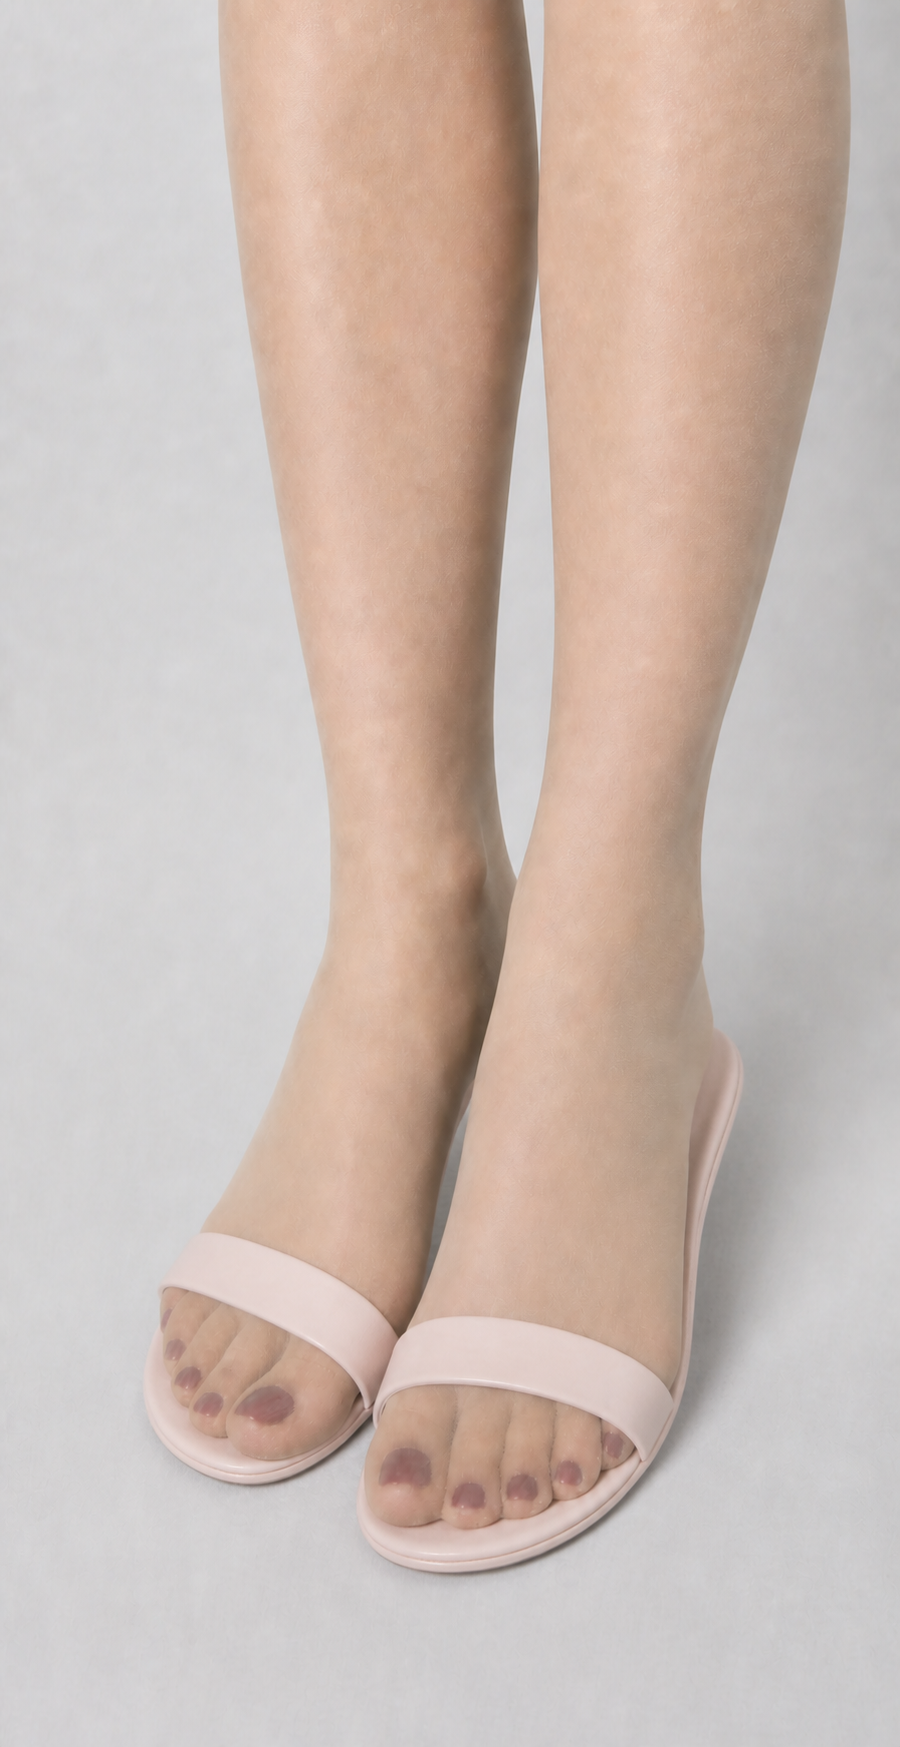
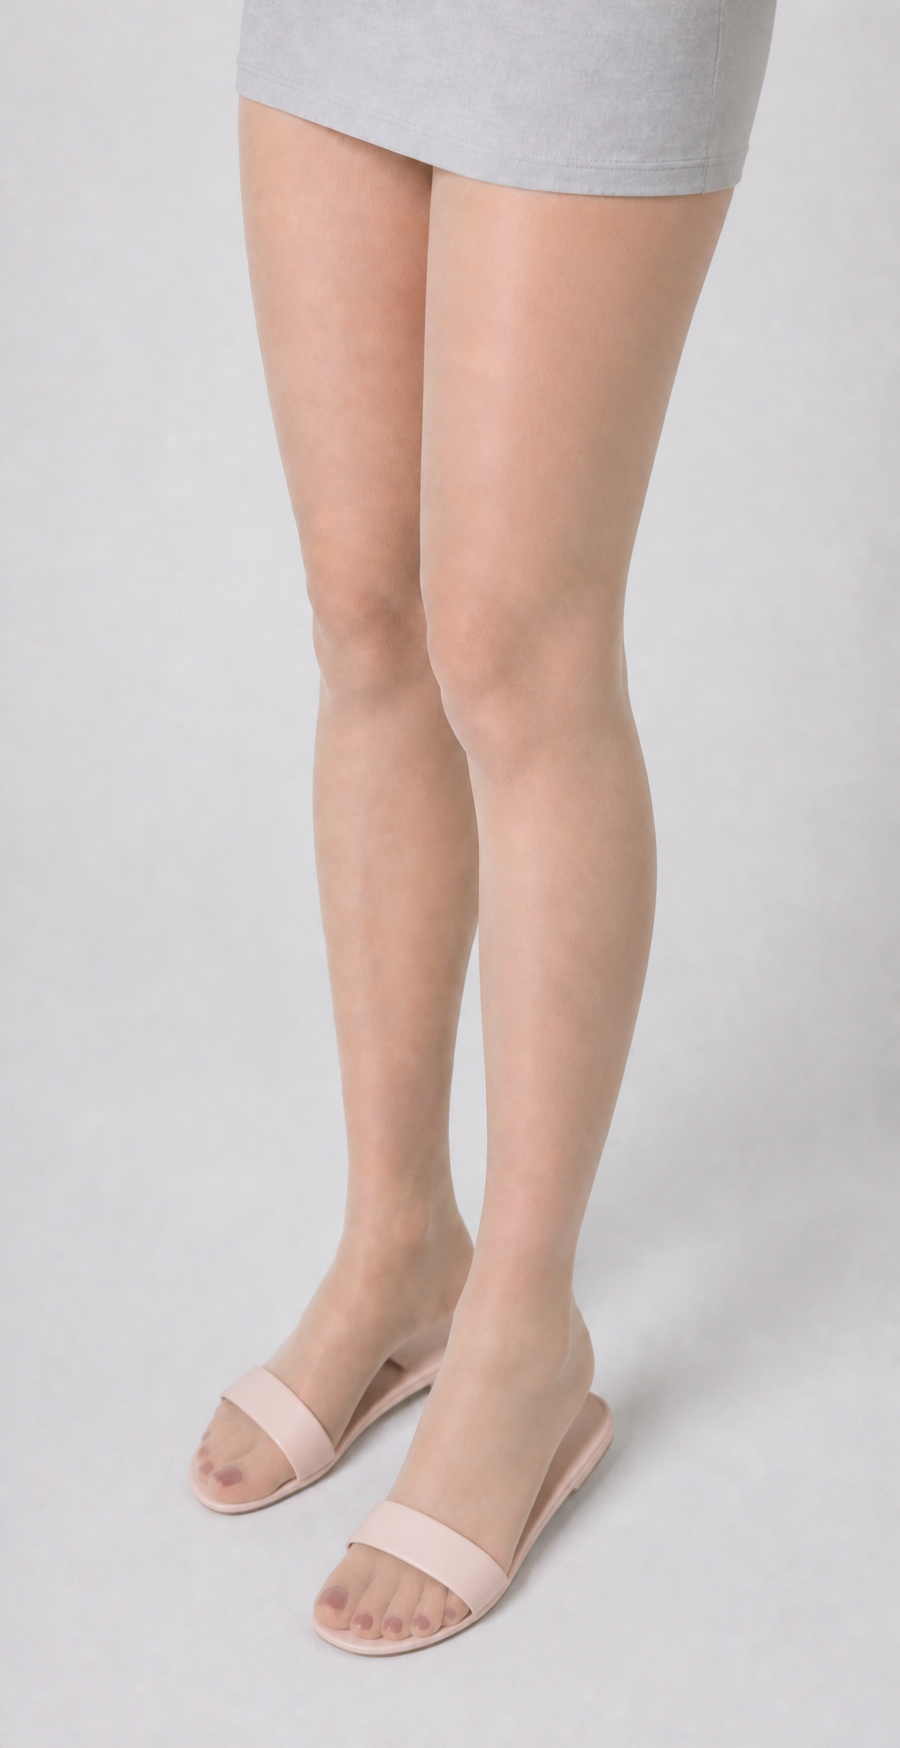
更新丝袜视觉模板，新增多个鞋型图像资产，修订资产计划以反映最新状态；移除不合格的鞋型图像。

diff --git a/assets/female-lead/hosiery/asset-plan.md b/assets/female-lead/hosiery/asset-plan.md
@@ -133,7 +133,11 @@
   - 输入参考：`visuals/hosiery-nude-30d-velvet-matte-plain-none-front-standing-neutral-toe-closeup-v01.png`（最终编辑目标，唯一锁定膝下比例、正面中性站姿、肉色 30D 材质、十趾结构、光照和背景）；由 `visuals/shoe-narrow-band-flat-home-slide-multiview-v01.png` 裁出的低位正面单视角临时图（只锁定浅象牙粉窄带、露趾口和薄底结构，未作为正式资产保存）。
   - 生成与 QA：2026-09-01；原生输出 901 × 1746 PNG；A–F 通过，G 的结构可读性通过但长边低于 2048 px 建议值；双脚完整居中入鞋并平整承重，十趾由连续袜面覆盖，趾间为柔和浅弧，十枚隔袜酒红甲油均清楚可辨且足底无甲油色块；窄带位于跖骨区域并留出更多脚背与趾根袜面，正面鞋底保持薄底零跟。
   - 尝试记录：`P1` 使用全腿正面模板时在输出阶段被安全系统误判拦截，未产生图片；`P2` 改用已批准的膝下正面结构特写作为编辑目标后首轮通过。
-- [ ] `FW-S02-T`｜`hosiery-nude-30d-velvet-matte-plain-narrow-band-flat-home-slide-top-three-quarter-standing-neutral-v01.png`｜高位三分之四。
+- [x] `FW-S02-T`｜`visuals/hosiery-nude-30d-velvet-matte-plain-narrow-band-flat-home-slide-top-three-quarter-standing-neutral-v01.png`｜高位三分之四。
+  - 提示词版本：`FW-S02-T-P1`；内置 ImageGen 精确编辑；以已批准 BASE-L02 为编辑目标，只为双脚穿上 S02 浅象牙粉窄面薄底零跟居家拖鞋；完整逐字加入 closed-foot toe lock、deep-red toenail visibility lock、plantar-view anatomy lock，并明确中性站立无褶皱、恰好五趾、窄带覆盖深度和鞋底全长水平。
+  - 输入参考：`visuals/hosiery-nude-30d-velvet-matte-plain-none-top-three-quarter-standing-neutral-v01.png`（编辑目标，唯一锁定女主自然腿脚比例、高位三分之四中性站姿、肉色 30D 材质、前后脚轻微错位、光照和背景）；由 `visuals/shoe-narrow-band-flat-home-slide-multiview-v01.png` 裁出的高位三分之四单视角临时图（只锁定浅象牙粉窄带、开放前后结构和 5–6 mm 薄底零跟，未作为正式资产保存）。
+  - 生成与 QA：2026-09-02；原生输出 900 × 1748 PNG；A–F 通过，G 的结构可读性通过但长边低于 2048 px 建议值；前脚五枚隔袜酒红甲油完整可辨，后脚受自然三分之四透视但所有可见背侧甲板均正确；双脚完整居中入鞋，脚踝—脚背—趾端肉色 30D 微织纹连续，趾间保持柔和浅弧，袜头无横线；S02 单条窄带位于跖骨区域，脚背开放区充足，鞋底全长保持薄底零跟。
+  - 尝试记录：`P1` 首轮通过，无失败候选。
 - [x] `FW-S02-L`｜`visuals/hosiery-nude-30d-velvet-matte-plain-narrow-band-flat-home-slide-lateral-side-standing-neutral-v01.png`｜外侧站立。
   - 提示词版本：`FW-S02-L-P3`；内置 ImageGen 精确编辑；放弃从失败的穿鞋图继续修补，改以已批准 BASE-C03 五趾无鞋结构图为编辑目标，只增加 S02 浅象牙粉窄带拖鞋；完整逐字加入 closed-foot toe lock、deep-red toenail visibility lock、plantar-view anatomy lock，并额外硬锁恰好五趾、自然趾序、均匀细密微织纹和中性站立无褶皱。
   - 输入参考：`visuals/hosiery-nude-30d-velvet-matte-plain-none-lateral-side-standing-neutral-foot-closeup-v01.png`（最终编辑目标，唯一锁定单脚五趾解剖、外侧三分之四比例、肉色 30D 材质、光照和背景）；由 `visuals/shoe-narrow-band-flat-home-slide-multiview-v01.png` 裁出的严格外侧单视角临时图（只锁定浅象牙粉窄带、开放后跟和薄底结构，未作为正式资产保存）。
@@ -150,15 +154,24 @@
   - 生成与 QA：2026-09-01；原生输出 1024 × 1536 PNG；A–F 通过，G 的结构可读性通过但长边低于 2048 px 建议值；全蹲姿势、自然比例、脚跟和鞋底接地、28–35 mm 窄带保持；前踝仅余少量极细浅低对比纹，膝窝压缩极弱，膝前与跟腱—后踝平顺，无 150D 般体积感；五趾、连续袜面与隔袜甲油通过。
   - 尝试记录：原 `P1`、`P2` 记录保留；用户指出 P2 褶皱偏厚后，P2 已移入 `rejected/`，`P3` 定向减量通过。
 
-### S04｜踝带露趾平底凉鞋
+### S04｜一字带踝带 15 mm 微方跟露趾凉鞋
 
-低饱和裸粉色，前掌横带、细踝带、露趾、平底。用于锁定鞋带压迫、脚背连续性和踝带上下丝袜材质一致性。
+低饱和裸粉色，方圆头、单条前掌一字带、细踝带、两侧斜向后跟支撑带、露趾、开放后跟；前掌底约 4–5 mm，鞋床腰部收窄并自然上扬，后掌为独立 15 mm 微方跟。用于锁定鞋带压迫、脚背连续性、踝带上下丝袜材质一致性及低跟站姿受力；禁止回退为全长水平直板鞋底或居家拖鞋轮廓。
 
-- [ ] `FW-S04-M`｜`shoe-ankle-strap-flat-sandal-multiview-v01.png`｜无脚产品多视角鞋型母版。
-- [ ] `FW-S04-F`｜`hosiery-nude-30d-velvet-matte-plain-ankle-strap-flat-sandal-front-standing-neutral-v01.png`｜正面站立。
-- [ ] `FW-S04-T`｜`hosiery-nude-30d-velvet-matte-plain-ankle-strap-flat-sandal-top-three-quarter-standing-neutral-v01.png`｜高位三分之四。
-- [ ] `FW-S04-L`｜`hosiery-nude-30d-velvet-matte-plain-ankle-strap-flat-sandal-lateral-side-standing-neutral-v01.png`｜外侧站立。
-- [ ] `FW-S04-Q`｜`hosiery-nude-30d-velvet-matte-plain-ankle-strap-flat-sandal-lateral-side-half-squat-v01.png`｜侧面半蹲。
+- [x] `FW-S04-M`｜`visuals/shoe-single-band-ankle-strap-15mm-low-block-heel-sandal-multiview-v01.png`｜无脚产品多视角鞋型母版。
+  - 提示词版本：`FW-S04-M-P2`；内置 ImageGen 精确编辑；以旧 P1 四格图为编辑目标，保留四视角布局与摄影语言，统一重建为低饱和裸粉色、方圆头、单条前掌一字带、细踝带、两侧斜向后跟支撑、收腰鞋床和独立 15 mm 微方跟；本项无脚、无女主、无丝袜，因此不加入脚趾硬锁。
+  - 输入参考：原 `visuals/shoe-ankle-strap-flat-sandal-multiview-v01.png` P1（仅锁定 2 × 2 布局、高位三分之四、严格外侧、低位正面和大底四视角，以及中性浅灰背景与柔和布光；旧直板平底鞋型明确不具约束力，现已移入 `rejected/`）。
+  - 生成与 QA：2026-09-02；原生输出 1402 × 1122 PNG；鞋型 QA 通过但长边低于 2048 px 建议值；四格保持同一只右脚凉鞋，方圆头、前掌一字带、细踝带、斜向后跟支撑、外侧小扣具、收窄腰线、4–5 mm 前掌底和独立 15 mm 微方跟一致；外侧视角可清楚辨认前掌—足弓—后跟层次，大底视角显示独立前掌纹路与后跟落地片，无脚、人物、丝袜、品牌或文字。
+  - 尝试记录：`P1` 虽通过原平底规格，但用户指出全长水平直板鞋底过于接近拖鞋，现按鞋型风格不匹配移入 `rejected/shoe-ankle-strap-flat-sandal-multiview-slide-like-rejected-v01.png`，严禁作为正向参考；`P2` 按用户确认的新样式首轮通过。
+  - 使用边界：多格总览只供人工检查鞋型一致性；后续穿着适配生成前，应裁出与目标机位对应的单一视角，不直接提交整张多格图作为正向参考。
+- [x] `FW-S04-F`｜`visuals/hosiery-nude-30d-velvet-matte-plain-single-band-ankle-strap-15mm-low-block-heel-sandal-front-standing-neutral-v01.png`｜正面站立。
+  - 提示词版本：`FW-S04-F-P1`；内置 ImageGen 精确编辑；以已批准 BASE-C01 为编辑目标，只为双脚穿上新版 S04 一字带踝带 15 mm 微方跟凉鞋，并允许脚踝做适配低跟所需的极轻微跖屈；完整逐字加入 closed-foot toe lock、deep-red toenail visibility lock 与 plantar-view anatomy lock。
+  - 输入参考：`visuals/hosiery-nude-30d-velvet-matte-plain-none-front-standing-neutral-toe-closeup-v01.png`（编辑目标，唯一锁定膝下比例、正面中性站姿、双脚十趾解剖、肉色 30D 材质、光照和背景）；由 `visuals/shoe-single-band-ankle-strap-15mm-low-block-heel-sandal-multiview-v01.png` 裁出的低位正面单视角临时图（只锁定方圆头、一字带、细踝带与两侧斜向支撑，未作为正式资产保存）。
+  - 生成与 QA：2026-09-02；原生输出 900 × 1748 PNG；A–F 通过，G 的结构可读性通过但长边低于 2048 px 建议值；双脚各五趾且十枚隔袜酒红甲油清楚可辨，趾间为连续柔和浅弧，袜头无横线；30D 微织纹从小腿经踝带上下、脚背到趾端保持连续，踝带未形成材质分界或松垮褶皱；双脚居中入鞋，方圆头、一字带、踝带、斜向支撑与低跟站姿成立。
+  - 尝试记录：`P1` 首轮通过，无失败候选。
+- [ ] `FW-S04-T`｜`hosiery-nude-30d-velvet-matte-plain-single-band-ankle-strap-15mm-low-block-heel-sandal-top-three-quarter-standing-neutral-v01.png`｜高位三分之四。
+- [ ] `FW-S04-L`｜`hosiery-nude-30d-velvet-matte-plain-single-band-ankle-strap-15mm-low-block-heel-sandal-lateral-side-standing-neutral-v01.png`｜外侧站立。
+- [ ] `FW-S04-Q`｜`hosiery-nude-30d-velvet-matte-plain-single-band-ankle-strap-15mm-low-block-heel-sandal-lateral-side-half-squat-v01.png`｜侧面半蹲。
 
 P0 完成条件：现保留的 17 项全部通过后，才开始 P1。若同一鞋型连续三次无法通过袜头结构验收，应先修正参考和构图，不继续批量生成其他角度。
 
@@ -247,7 +260,7 @@ P0–P2 的站立结构通过后，再补以下鞋型专属姿势：
 
 建议首批兼容性测试：
 
-- [!] `FW-MAT-01`｜`hosiery-white-15d-pearl-plain-ankle-strap-flat-sandal-top-three-quarter-standing-neutral-v01.png`｜S04 踝带平底凉鞋 × 白色 15D 珠光；等待材质中性硬锁。
+- [!] `FW-MAT-01`｜`hosiery-white-15d-pearl-plain-single-band-ankle-strap-15mm-low-block-heel-sandal-top-three-quarter-standing-neutral-v01.png`｜S04 一字带踝带 15 mm 微方跟凉鞋 × 白色 15D 珠光；等待材质中性硬锁。
 - [!] `FW-MAT-02`｜`hosiery-gray-30d-satin-plain-open-toe-flat-mule-top-three-quarter-standing-neutral-v01.png`｜S05 露趾平底穆勒鞋 × 灰色 30D 缎光；等待材质中性硬锁。
 - [!] `FW-MAT-03`｜`hosiery-nude-15d-oil-gloss-plain-single-band-high-heel-sandal-top-three-quarter-standing-neutral-v01.png`｜S07 一字带高跟凉鞋 × 肉色 15D 油亮；等待材质中性硬锁。
 - [!] `FW-MAT-04`｜`hosiery-black-50d-velvet-matte-plain-strappy-high-heel-sandal-top-three-quarter-standing-neutral-v01.png`｜S08 多细带高跟凉鞋 × 黑色 50D 天鹅绒哑光；等待材质与甲油可见性规则。

diff --git a/assets/female-lead/hosiery/README.md b/assets/female-lead/hosiery/README.md
@@ -4,7 +4,7 @@
 
 ## 当前状态
 
-当前已有 20 张通过确认或 QA 的视觉模板。目录保持精简，规则由四个入口文件管理，正式图片集中放入 `visuals/`：
+当前已有 23 张通过确认或 QA 的视觉模板。目录保持精简，规则由四个入口文件管理，正式图片集中放入 `visuals/`：
 
 - `README.md`：本入口、属性体系、参考图使用方法和登记规则。
 - `asset-plan.md`：后续视觉模板与鞋履适配生成清单。
@@ -112,8 +112,11 @@ hosiery-{color}-{denier}d-{material}-{pattern}-{shoe-or-none}-{view}-{pose}-vNN.
 | `visuals/hosiery-nude-30d-velvet-matte-plain-wide-band-flat-home-slide-lateral-side-deep-squat-v01.png` | `approved`，2026-09-01，用户纠正后 QA 通过 | 肉色 30D 天鹅绒哑光完整包脚连裤袜；浅粉色单条宽鞋面、5–6 mm 薄底零跟居家拖鞋 | 严格侧视全蹲，下肢技术构图，近侧单腿完整可见、远侧腿自然完全遮挡 | 内置 ImageGen 精确编辑；`FW-S01-D-P3`；以原 P2 为唯一编辑目标，只把前踝褶皱压缩为少量极细浅低对比纹，并弱化膝窝压缩线；完整加入三段脚趾/足底硬锁 | 检查全蹲落跟受力、30D 轻量前踝压缩纹、膝前与跟腱—后踝平顺张力，以及鞋脚连续性 | 原生 1024 × 1536，低于 2048 px 长边建议；仅承担下肢全蹲受力与轻量褶皱参考；褶皱量不超过旧半蹲模板且无近似 150D 的厚重体积；旧褶皱偏厚版本已移入 `rejected/` |
 | `visuals/shoe-narrow-band-flat-home-slide-multiview-v01.png` | `approved`，2026-09-01，鞋型 QA 通过 | 浅象牙粉色、单条窄鞋面、露趾、后跟开放、5–6 mm 柔性薄底、零跟 | 同一只右脚拖鞋的高位三分之四、严格外侧、低位正面和大底四视角 | 内置 ImageGen 精确编辑；`FW-S02-M-P1`；以 FW-S01-M 为编辑目标，只收窄鞋面覆盖深度并调整为浅象牙粉色；本项无脚、无女主、无丝袜，不加入脚趾硬锁 | 人工核对窄鞋面覆盖、较大脚背开放区、前后开放结构、全长水平薄底、鞋口和大底轮廓；为 S02 穿着适配图定义鞋型 | 原生 1402 × 1122，低于 2048 px 长边建议；为多格总览，只供人工检查，提交生成模型时应裁出与目标机位相同的单一视角，不直接以整张多格图作为正向参考 |
 | `visuals/hosiery-nude-30d-velvet-matte-plain-narrow-band-flat-home-slide-front-standing-neutral-v01.png` | `approved`，2026-09-01，QA 通过 | 肉色 30D 天鹅绒哑光完整包脚连裤袜；浅象牙粉单条窄鞋面、5–6 mm 薄底零跟居家拖鞋 | 膝下至双脚正面中性站立结构特写 | 内置 ImageGen 精确编辑；`FW-S02-F-P2`；以已批准 BASE-C01 为编辑目标，裁取 FW-S02-M 低位正面单视角只约束鞋型；完整加入三段脚趾/足底硬锁与中性站立褶皱规则 | 检查窄带减少遮挡后十趾连续袜面、十枚隔袜甲油、脚背开放区、双脚入鞋位置及正面薄底边缘 | 原生 901 × 1746，低于 2048 px 长边建议；无脸部且为膝下结构特写，不承担身份或全腿比例参考；正面机位不替代高位三分之四、外侧或足底模板 |
+| `visuals/hosiery-nude-30d-velvet-matte-plain-narrow-band-flat-home-slide-top-three-quarter-standing-neutral-v01.png` | `approved`，2026-09-02，QA 通过 | 肉色 30D 天鹅绒哑光完整包脚连裤袜；浅象牙粉单条窄鞋面、5–6 mm 薄底零跟居家拖鞋 | 下半身高位三分之四中性站立，双脚前后轻微错位 | 内置 ImageGen 精确编辑；`FW-S02-T-P1`；以已批准 BASE-L02 为编辑目标，裁取 FW-S02-M 高位三分之四单视角只约束窄带鞋型；完整加入三段脚趾/足底硬锁、窄带覆盖深度与中性站立褶皱规则 | 检查高机位下窄带减少遮挡后的脚踝—脚背—趾端连续性、趾间浅弧、隔袜甲油、双脚入鞋位置及全长薄底零跟结构 | 原生 900 × 1748，低于 2048 px 长边建议；无脸部，不承担身份参考；后脚部分背侧甲板受三分之四透视自然遮挡，不替代正面十趾、外侧或足底模板 |
 | `visuals/hosiery-nude-30d-velvet-matte-plain-narrow-band-flat-home-slide-lateral-side-standing-neutral-v01.png` | `approved`，2026-09-01，用户纠正后 QA 通过 | 肉色 30D 天鹅绒哑光完整包脚连裤袜；浅象牙粉单条窄鞋面、5–6 mm 薄底零跟居家拖鞋 | 单脚外侧三分之四中性站立结构特写 | 内置 ImageGen 精确编辑；`FW-S02-L-P3`；改以已批准 BASE-C03 五趾无鞋结构图为编辑目标，裁取 FW-S02-M 严格外侧单视角只约束窄带鞋型；完整加入三段脚趾/足底硬锁、恰好五趾和袜面防涂抹约束 | 检查恰好五趾、均匀细密袜面、窄带下小脚趾侧、外踝、脚背开放区、脚跟入鞋、薄底边缘和无缝袜头前缘 | 原生 899 × 1748，低于 2048 px 长边建议；无脸部且为单脚模板，不承担身份或双脚站姿参考；外侧三分之四机位不替代正面十趾或足底模板；先前六趾且袜面涂抹的版本已移入 `rejected/`，禁止作为正向参考 |
 | `visuals/hosiery-nude-30d-velvet-matte-plain-narrow-band-flat-home-slide-lateral-side-half-squat-v01.png` | `approved`，2026-09-01，用户纠正后 QA 通过 | 肉色 30D 天鹅绒哑光完整包脚连裤袜；浅象牙粉单条窄鞋面、5–6 mm 薄底零跟居家拖鞋 | 严格侧视半蹲，近侧单腿完整可见、远侧腿自然完全遮挡 | 内置 ImageGen 精确编辑；`FW-S02-Q-P4`；以原 P3 为唯一编辑目标，只移除前踝与膝窝可见褶皱，保持 S02 窄带、姿势与袜头结构；完整加入三段脚趾/足底硬锁 | 检查窄带拖鞋半蹲时全腿袜面贴体平顺、跟腱张力及落跟受力 | 原生 1024 × 1536，低于 2048 px 长边建议；无脸部且远侧腿被严格侧视遮挡，不承担身份、双腿错位或正面十趾参考；关节无可数织物褶皱组；旧褶皱偏厚版本已移入 `rejected/` |
 | `visuals/hosiery-nude-30d-velvet-matte-plain-narrow-band-flat-home-slide-lateral-side-deep-squat-v01.png` | `approved`，2026-09-01，用户纠正后 QA 通过 | 肉色 30D 天鹅绒哑光完整包脚连裤袜；浅象牙粉单条窄鞋面、5–6 mm 薄底零跟居家拖鞋 | 严格侧视全蹲，下肢技术构图，近侧单腿完整可见、远侧腿完全遮挡 | 内置 ImageGen 精确编辑；`FW-S02-D-P3`；以原 P2 为唯一编辑目标，只把前踝褶皱压缩为少量极细浅低对比纹，并弱化膝窝压缩线；完整加入三段脚趾/足底硬锁和恰好五趾约束 | 检查全蹲落跟受力、30D 轻量前踝压缩纹、膝前与跟腱—后踝平顺张力，以及窄带鞋脚连续性 | 原生 1024 × 1536，低于 2048 px 长边建议；仅承担下肢全蹲受力与轻量褶皱参考；褶皱量不超过旧半蹲模板且无近似 150D 的厚重体积；旧褶皱偏厚版本已移入 `rejected/` |
+| `visuals/shoe-single-band-ankle-strap-15mm-low-block-heel-sandal-multiview-v01.png` | `approved`，2026-09-02，用户确认样式后鞋型 QA 通过 | 低饱和裸粉色、方圆头、单条前掌一字带、完整细踝带、两侧斜向后跟支撑、外侧小扣具、露趾、开放后跟、4–5 mm 前掌底、独立 15 mm 微方跟 | 同一只右脚凉鞋的高位三分之四、严格外侧、低位正面和大底四视角 | 内置 ImageGen 精确编辑；`FW-S04-M-P2`；以旧 P1 四格图为布局与摄影语言编辑目标，统一重建收腰鞋床与独立低跟；本项无脚、无女主、无丝袜，不加入脚趾硬锁 | 人工核对一字带、踝带闭环、斜向支撑带、外侧扣具、收腰鞋床、前掌—足弓—微方跟层次和四视角鞋型一致性；为新版 S04 穿着适配图定义鞋型 | 原生 1402 × 1122，低于 2048 px 长边建议；为多格总览，只供人工检查，提交生成模型时应裁出与目标机位相同的单一视角；旧直板平底 P1 已移入 `rejected/`，禁止作为正向参考 |
+| `visuals/hosiery-nude-30d-velvet-matte-plain-single-band-ankle-strap-15mm-low-block-heel-sandal-front-standing-neutral-v01.png` | `approved`，2026-09-02，QA 通过 | 肉色 30D 天鹅绒哑光完整包脚连裤袜；低饱和裸粉色方圆头一字带踝带凉鞋、4–5 mm 前掌底、独立 15 mm 微方跟 | 膝下至双脚正面中性站立结构特写 | 内置 ImageGen 精确编辑；`FW-S04-F-P1`；以已批准 BASE-C01 为编辑目标，裁取 FW-S04-M 低位正面单视角只约束鞋型；完整加入三段脚趾/足底硬锁、踝带上下材质连续性与低跟站姿规则 | 检查正面十趾连续袜面、十枚隔袜甲油、一字带和方圆鞋头、踝带上下 30D 材质连续性、双脚入鞋及低跟平衡 | 原生 900 × 1748，低于 2048 px 长边建议；无脸部且为膝下结构特写，不承担身份或全腿比例参考；正面机位不充分展示收腰鞋床和独立微方跟，需由高位三分之四与外侧模板补充 |
 
 后续每项至少记录：文件路径、状态、颜色、厚度、材质、花纹、鞋型、视角、姿势、生成提示词版本、输入参考、QA 日期、推荐用途和已知限制。
